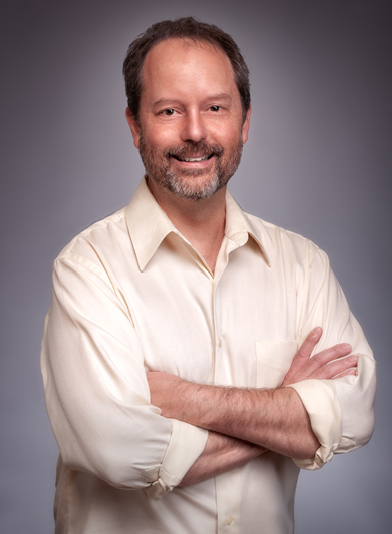
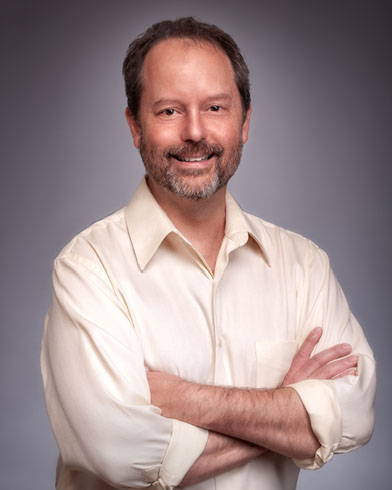
Add Ramsey's speaker page, resize speaker images

diff --git a/ramsey-nasser.html b/ramsey-nasser.html
@@ -1,0 +1,146 @@
+<!DOCTYPE html>
+<html lang="en">
+
+<head>
+  <meta charset="utf-8">
+  <title>Clojure/north 2019 | Fn and Games with Arcadia by Ramsey Nasser</title>
+  <meta content="width=device-width, initial-scale=1.0" name="viewport">
+  <meta content="Clojure conference in Toronto, Canada" name="description">
+
+
+  <!-- Favicons -->
+  <link href="img/favicon.png" rel="icon">
+  <link href="img/apple-touch-icon.png" rel="apple-touch-icon">
+
+  <!-- Google Fonts -->
+  <link href="https://fonts.googleapis.com/css?family=Open+Sans:300,300i,400,400i,700,700i|Raleway:300,400,500,700,800" rel="stylesheet">
+
+  <!-- Bootstrap CSS File -->
+  <link href="lib/bootstrap/css/bootstrap.min.css" rel="stylesheet">
+
+  <!-- Libraries CSS Files -->
+  <link href="lib/font-awesome/css/font-awesome.min.css" rel="stylesheet">
+  <link href="lib/animate/animate.min.css" rel="stylesheet">
+
+  <!-- Main Stylesheet File -->
+  <link href="css/style.css" rel="stylesheet">
+
+  <!-- Meta Tags -->
+  <meta property="og:type" content="website" />
+  <meta property="og:title" content="Clojure/north 2019 | Ramsey Nasser" />
+  <meta property="og:description" content="Clojure conference in Toronto, Canada" />
+  <meta property="og:image" content="https://clojurenorth.com/img/logo-2x.png" />
+  <meta property="og:url" content="http://clojurenorth.com/" />
+  <meta property="og:site_name" content="Clojure/north" />
+  <meta property="twitter:card" content="summary_large_image" />
+  <meta property="twitter:site" content="@clojurenorth" />
+
+  <!-- =======================================================
+    Theme Name: TheEvent
+    Theme URL: https://bootstrapmade.com/theevent-conference-event-bootstrap-template/
+    Author: BootstrapMade.com
+    License: https://bootstrapmade.com/license/
+  ======================================================= -->
+</head>
+
+<body>
+
+  <!--==========================
+    Header
+  ============================-->
+  <header id="header" class="header-fixed">
+    <div class="container">
+
+      <div id="logo" class="pull-left">
+        <!-- Uncomment below if you prefer to use a text logo -->
+        <!-- <h1><a href="#main">C<span>o</span>nf</a></h1>-->
+        <a href="index.html#intro" class="scrollto"><img src="img/logo-icon.png" alt="" title=""></a>
+      </div>
+
+      <nav id="nav-menu-container">
+        <ul class="nav-menu">
+          <li><a href="index.html#intro">Home</a></li>
+          <li><a href="index.html#about">About</a></li>
+          <li><a href="index.html#schedule">Schedule</a></li>
+          <li><a href="index.html#speakers">Speakers</a></li>
+          <li><a href="index.html#sponsors">Sponsors</a></li>
+          <li><a href="index.html#contact">Contact</a></li>
+          <li><a href="index.html#conduct">Code of Conduct</a></li>
+          <li class="buy-tickets"><a href="https://ti.to/clojure-north/clojure-north-2019" target="_blank">Registration</a></li>
+        </ul>
+      </nav><!-- #nav-menu-container -->
+    </div>
+  </header><!-- #header -->
+
+  
+<main id="main" class="main-page">
+
+  <!--==========================
+    Speaker Details Section
+  ============================-->
+  <section id="speakers-details" class="wow fadeIn">
+    <div class="container">
+
+      <div class="row">
+        <div class="col-md-6">
+          
+          <img src="img/speakers/ramsey-nasser.jpg" alt="Ramsey Nasser" class="img-fluid">
+          
+        </div>
+
+        <div class="col-md-6">
+          <div class="details">
+            <h2>Ramsey Nasser</h2>
+            
+            <h3>Fn and Games with Arcadia</h3>
+            <p>Game development is traditionally done in object oriented languages with pervasive mutation, so how does a functional lisp like Clojure work in the same setting? The Arcadia project integrates Clojure into Unity, the industry standard game engine, to do just that. This talk will dissect a few games made in Arcadia to explore how we use Clojure&#39;s strengths to make game development radically different.</p>
+<p>Through Ramsey&#39;s talk you&#39;ll see concrete examples of how to use Clojure&#39;s functional semantics and lisp idioms in a game development context.</p>
+
+          </div>
+        </div>
+
+      </div>
+    </div>
+
+  </section>
+
+</main>
+
+
+  <!--==========================
+    Footer
+  ============================-->
+  <footer id="footer">
+
+    <div class="container">
+      <div class="copyright">
+        <strong>Clojure/north</strong> is organized with the lovely help of <a href="https://www.linkedin.com/in/nikolaperic">Nikola Peric</a>, <a href="https://github.com/yogthos">Dmitri Sotnikov</a>, <a href="https://github.com/lacarmen">Carmen La</a>, <a href="https://www.lubovsoltan.com/">Lubov Soltan</a>, and others from the <a href="https://www.meetup.com/Clojure-Toronto/">Clojure TO community</a>.
+      </div>
+      <div class="credits">
+        <!--
+          All the links in the footer should remain intact.
+          You can delete the links only if you purchased the pro version.
+          Licensing information: https://bootstrapmade.com/license/
+          Purchase the pro version with working PHP/AJAX contact form: https://bootstrapmade.com/buy/?theme=TheEvent
+        -->
+        Designed by <a href="https://bootstrapmade.com/">BootstrapMade</a>
+      </div>
+    </div>
+  </footer><!-- #footer -->
+
+  <a href="#" class="back-to-top"><i class="fa fa-angle-up"></i></a>
+
+  <!-- JavaScript Libraries -->
+  <script src="lib/jquery/jquery.min.js"></script>
+  <script src="lib/jquery/jquery-migrate.min.js"></script>
+  <script src="lib/bootstrap/js/bootstrap.bundle.min.js"></script>
+  <script src="lib/easing/easing.min.js"></script>
+  <script src="lib/superfish/hoverIntent.js"></script>
+  <script src="lib/superfish/superfish.min.js"></script>
+  <script src="lib/wow/wow.min.js"></script>
+
+  <!-- Template Main Javascript File -->
+  <script src="js/main.js"></script>
+</body>
+
+</html>

diff --git a/index.html b/index.html
@@ -530,6 +530,19 @@
             </div>
           </div>
           
+          <div class="col-lg-4 col-md-6">
+            <div class="speaker d-none d-md-block">
+              <a href="ramsey-nasser.html"><img src="img/speakers/ramsey-nasser.jpg" alt="Ramsey Nasser" class="img-fluid"></a>
+              <div class="details">
+                <h3><a href="ramsey-nasser.html">Ramsey Nasser</a></h3>
+                <p>Fn and Games with Arcadia</p>
+                <div class="social">
+                  
+                </div>
+              </div>
+            </div>
+          </div>
+          
         </div>
       </div>
 

diff --git a/script/speakers/ramsey-nasser.md b/script/speakers/ramsey-nasser.md
@@ -1,0 +1,7 @@
+{:name "Ramsey Nasser"
+ :title "Fn and Games with Arcadia"
+ :image "ramsey-nasser.jpg"}
+
+Game development is traditionally done in object oriented languages with pervasive mutation, so how does a functional lisp like Clojure work in the same setting? The Arcadia project integrates Clojure into Unity, the industry standard game engine, to do just that. This talk will dissect a few games made in Arcadia to explore how we use Clojure's strengths to make game development radically different.
+
+Through Ramsey's talk you'll see concrete examples of how to use Clojure's functional semantics and lisp idioms in a game development context.
